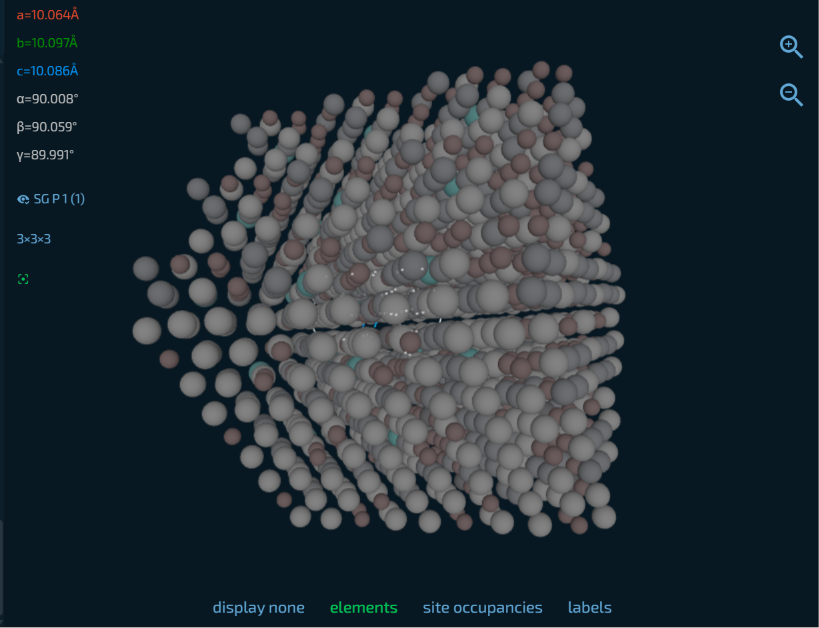
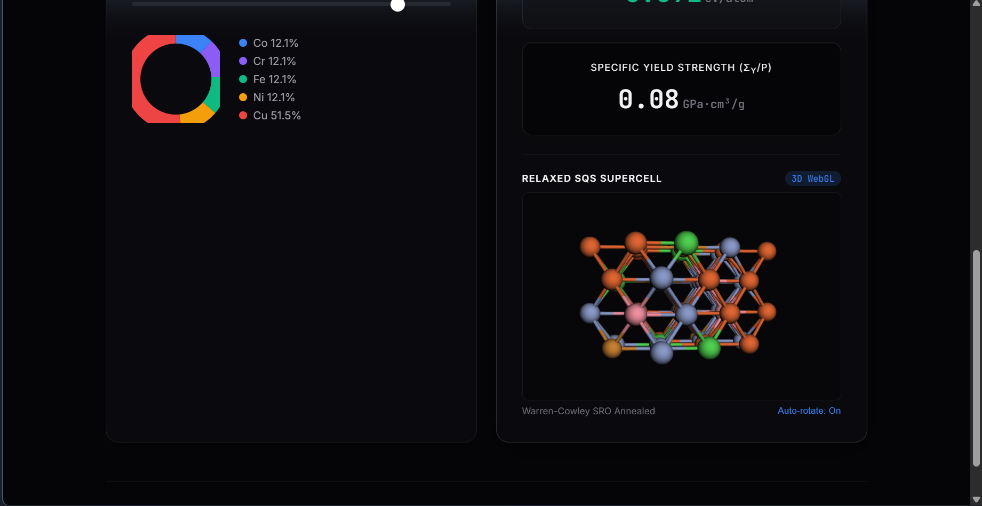
docs: add live 3D demo preview, native Mermaid workflow, and linguist attributes

diff --git a/README.md b/README.md
@@ -14,7 +14,7 @@
 ## Core Features
 
 - **Combinatorial Engine:** Generates candidate alloy compositions and filters them using established physical metallurgy rules (e.g., lattice strain limits δ < 6.6% and specific VEC phase thresholds).
-- **Property Prediction:** Utilizes Random Forest regression models trained on 132 Matminer Magpie descriptors to predict rule-of-mixtures density and solid-solution strengthening proxies (see [Transparency Note](#transparency-note) below).
+- **Property Prediction:** Utilizes Random Forest regression models trained on 132 Matminer Magpie descriptors to predict continuum density and dislocation-calibrated yield strength ($\sigma_y = \sigma_0 + M \cdot \tau_{ss}$).
 - **Inverse Design:** A custom genetic algorithm evolves alloy compositions over multiple generations to maximize specific strength (strength-to-weight ratio).
 - **Structure Relaxation:** Optimizes SQS supercell blueprints (54-atom BCC / 48-atom FCC) using the CHGNet graph neural network interatomic potential, with post-relaxation space group verification via `SpacegroupAnalyzer`.
 - **Web Interface:** A lightweight Flask and React interface with a clean, dark-themed UI for real-time model inference.
@@ -25,30 +25,29 @@
 
 MetaForge employs a **three-tier multi-fidelity screening architecture** designed to balance high-throughput exploratory bandwidth with atomistic and quantum thermodynamic accuracy:
 
-```
-┌────────────────────────────────────────────────────────────────────────┐
-│               TIER 1: HIGH-THROUGHPUT COMPOSITIONAL SCREEN            │
-│  • Combinatorial phase filtering (Zhang δ < 6.6%, Guo VEC thresholds) │
-│  • Miedema enthalpy filter (-15 <= ΔH_mix <= +5 kJ/mol, Ω >= 1.1)     │
-│  • 132 Magpie feature descriptors + Random Forest surrogate regressors │
-│  • Dislocation-calibrated Yield Strength (Taylor factor: σ_y = σ_0 + M·τ_ss)
-└───────────────────────────────────┬────────────────────────────────────┘
-                                    │ Top Candidates (Simplex Pareto Front)
-                                    ▼
-┌────────────────────────────────────────────────────────────────────────┐
-│               TIER 2: ATOMISTIC GNN RELAXATION & SRO OPTIMIZATION     │
-│  • Monte Carlo simulated annealing minimizing Warren-Cowley SRO (α₁, α₂)
-│  • 54-atom BCC / 48-atom FCC Special Quasirandom Structures (SQS)      │
-│  • CHGNet universal graph neural network structural relaxation         │
-│  • Thermodynamic Formation Energy (ΔE_f) relative to pure elements     │
-└───────────────────────────────────┬────────────────────────────────────┘
-                                    │ Final Pareto Blueprints
-                                    ▼
-┌────────────────────────────────────────────────────────────────────────┐
-│               TIER 3: FIRST-PRINCIPLES DFT & EXPERIMENTAL VALIDATION   │
-│  • High-throughput ab-initio DFT (VASP/QE) for ground-truth C_ij       │
-│  • Vacuum arc remelting & XRD/SEM/Vickers hardness synthesis roadmap   │
-└────────────────────────────────────────────────────────────────────────┘
+```mermaid
+graph TD
+    subgraph T1["<b>TIER 1: High-Throughput Compositional Screen</b>"]
+        A1["• Combinatorial phase filtering: Zhang δ ≤ 6.6%, Guo VEC thresholds"]
+        A2["• Miedema mixing enthalpy: -15 ≤ ΔH_mix ≤ +5 kJ/mol, Ω ≥ 1.1"]
+        A3["• 132 Magpie feature descriptors + Random Forest surrogate regressors"]
+        A4["• Dislocation-calibrated Yield Strength: σ_y = σ_0 + M·τ_ss"]
+    end
+
+    subgraph T2["<b>TIER 2: Atomistic GNN Relaxation & SRO Optimization</b>"]
+        B1["• Monte Carlo simulated annealing minimizing Warren-Cowley SRO: α₁, α₂"]
+        B2["• 54-atom BCC / 48-atom FCC Special Quasirandom Structures (SQS)"]
+        B3["• CHGNet universal neural network potential structural relaxation"]
+        B4["• Thermodynamic Formation Energy: ΔE_f relative to pure elements"]
+    end
+
+    subgraph T3["<b>TIER 3: First-Principles DFT & Experimental Validation</b>"]
+        C1["• High-throughput ab-initio DFT (VASP/QE) for ground-truth C_ij"]
+        C2["• Vacuum arc remelting & XRD/SEM/Vickers hardness synthesis roadmap"]
+    end
+
+    T1 -->|Top Pareto Candidates| T2
+    T2 -->|Optimized Blueprints| T3
 ```
 
 > **Methodological Note on Surrogates:** In Tier 1, property models operate on analytical proxies (composition-weighted density and Taylor-factor solid-solution yield strength) to evaluate hundreds of thousands of combinations in milliseconds. The LinearRegression baseline verifies that Tier 1 proxies are smoothly recoverable from Magpie features, while Tier 2 CHGNet relaxations reveal the true non-linear atomic volume contractions (+5.1% in refractory systems) that linear proxies omit.
